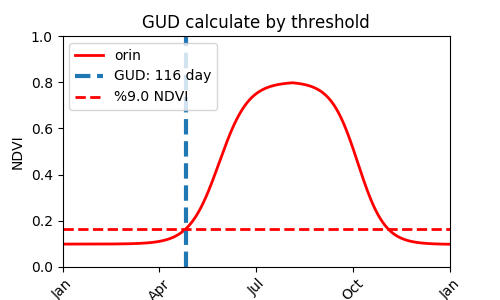
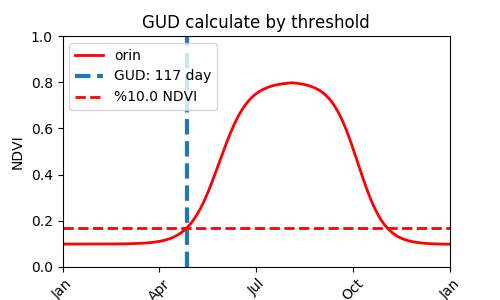
push version 1.0

diff --git a/GUDsimulation/src/PyQtMain.py b/GUDsimulation/src/PyQtMain.py
@@ -15,10 +15,11 @@ from Main import *
 import txt_ndviseris_read
 import sys
 
+
 class ParameterItem(QListWidgetItem):
 
-    def __init__(self, str, a=11.105, b=-0.008, c=0.7, d=0.1, a_down=-24.3, b_down=0.009, weight=1):
-        QListWidgetItem.__init__(self, str)
+    def __init__(self, tstr, a=11.105, b=-0.008, c=0.7, d=0.1, a_down=-24.3, b_down=0.009, weight=1.0, threshold=0.09):
+        QListWidgetItem.__init__(self, tstr)
         self.a = a
         self.b = b
         self.c = c
@@ -26,7 +27,8 @@ class ParameterItem(QListWidgetItem):
         self.a_down = a_down
         self.b_down = b_down
         self.weight = weight
-        self.parameter = [a,b,c,d,a_down,b_down]
+        self.parameter = [a, b, c, d, a_down, b_down]
+        self.threshold = threshold
 
 
 class PyQtMain(QWidget):
@@ -168,8 +170,10 @@ class PyQtMain(QWidget):
             item = self.view.item(i)
             inputList.append(item.parameter)
             weightList.append(item.weight)
+            threshold = item.threshold
+
         weightList = list(map(lambda x:x/sum(weightList), weightList))
-        [GUDmix, GUDothers, GUDthre, GUDthreothers] = main(inputList, fa=weightList)
+        [GUDmix, GUDothers, GUDthre, GUDthreothers] = main(inputList, fa=weightList, thre=threshold)
         pixMap1 = QPixmap('drawOne.png')
         pixMap2 = QPixmap('drawTwo.png')
         pixMap3 = QPixmap('drawThree.png')
@@ -280,6 +284,8 @@ class InputWin(QWidget):
                                             QMessageBox.Yes)
 
     def confirmClick(self):
+        weigth = self.weigthEdit.toPlainText()
+        threshold = float(self.threEdit.toPlainText())
         if self._parameterButton.isChecked():
             a = self.aEdit.toPlainText()
             b = self.bEdit.toPlainText()
@@ -287,7 +293,7 @@ class InputWin(QWidget):
             d = self.dEdit.toPlainText()
             a_down = self.a_downEdit.toPlainText()
             b_down = self.b_downEdit.toPlainText()
-            weigth = self.weigthEdit.toPlainText()
+
             tstr = 'a: ' + a + ' b: ' + b + ' c: ' + c + ' d: ' + d + ' a_down: ' + a_down + ' b_down: ' + b_down\
                 +' Weight: ' + weigth
             a = float(a)
@@ -297,9 +303,6 @@ class InputWin(QWidget):
             a_down = float(a_down)
             b_down = float(b_down)
             weigth = float(weigth)
-            thisItem = ParameterItem(tstr,a=a,b=b,c=c,d=d,a_down=a_down,b_down=b_down,weight=weigth)
-            self.context.view.addItem(thisItem)
-            print('Do Parameter Method!')
 
         else:
             '''
@@ -315,10 +318,12 @@ class InputWin(QWidget):
             d = round(parameters[3], 3)
             a_down = round(parameters[4], 3)
             b_down = round(parameters[5], 3)
-            weigth = 1
             tstr = self.pathEdit.text()
-            thisItem = ParameterItem(tstr, a=a, b=b, c=c, d=d, a_down=a_down, b_down=b_down, weight=weigth)
-            self.context.view.addItem(thisItem)
+            weigth = float(weigth)
+
+        thisItem = ParameterItem(tstr, a=a, b=b, c=c, d=d, a_down=a_down,\
+                                 b_down=b_down, weight=weigth, threshold=threshold)
+        self.context.view.addItem(thisItem)
 
     def cancerClick(self):
         self.close()
@@ -326,7 +331,7 @@ class InputWin(QWidget):
     def inputPath(self):
         fileName1, filetype = QFileDialog.getOpenFileName(self,
                                     "Select File",
-                                    "C:/",
+                                    "./",
                                     "All Files (*);;Text Files (*.txt)") #设置文件扩展名过滤,注意用双分号间隔
         self.pathEdit.setText(fileName1)
 
@@ -412,39 +417,34 @@ class InputWin(QWidget):
         self.threEdit.setFixedSize(80, 30)
         self.threEdit.setText('0.09')
         threLabel = QLabel('threshold:')
-        threLabel.setFixedSize(80, 30)
+        threLabel.setFixedSize(60, 30)
         '''
         vbox.addWidget(a_downLabel, 2, 0)
         vbox.addWidget(a_downEdit, 2, 1)
         vbox.addWidget(b_downLabel, 2, 2)
         vbox.addWidget(b_downEdit, 2, 3)
         '''
-        hbox1 = QHBoxLayout()
-        hbox1.setSpacing(5)
-        hbox1.addWidget(aLable)
-        hbox1.addWidget(self.aEdit)
-        hbox1.addWidget(bLable)
-        hbox1.addWidget(self.bEdit)
-        hbox1.addWidget(cLable)
-        hbox1.addWidget(self.cEdit)
-        hbox1.addWidget(dLable)
-        hbox1.addWidget(self.dEdit)
-
-        hbox2 = QHBoxLayout()
-        hbox2.setSpacing(5)
-        hbox2.addWidget(a_downLabel)
-        hbox2.addWidget(self.a_downEdit)
-        hbox2.addWidget(b_downLabel)
-        hbox2.addWidget(self.b_downEdit)
+        '''
         hbox2.addWidget(weigthLabel)
         hbox2.addWidget(self.weigthEdit)
         hbox2.addWidget(threLabel)
         hbox2.addWidget(self.threEdit)
+        '''
 
-        vbox = QVBoxLayout()
-        vbox.setDirection(vbox.Up)
-        vbox.addLayout(hbox2)
-        vbox.addLayout(hbox1)
+        vbox = QGridLayout()
+        vbox.setSpacing(10)
+        vbox.addWidget(aLable, 1, 1)
+        vbox.addWidget(self.aEdit, 1, 2)
+        vbox.addWidget(bLable, 1, 3)
+        vbox.addWidget(self.bEdit, 1, 4)
+        vbox.addWidget(cLable, 1, 5)
+        vbox.addWidget(self.cEdit, 1, 6)
+        vbox.addWidget(dLable, 2, 1)
+        vbox.addWidget(self.dEdit, 2, 2)
+        vbox.addWidget(a_downLabel, 2, 3)
+        vbox.addWidget(self.a_downEdit, 2, 4)
+        vbox.addWidget(b_downLabel, 2, 5)
+        vbox.addWidget(self.b_downEdit, 2, 6)
 
         NDVIPath = QLabel('Path:')
         self.pathEdit = QLineEdit()
@@ -519,8 +519,13 @@ class InputWin(QWidget):
 
         inputGroup4left = QGroupBox()
         inputGroup4left.setTitle("Preview Image")
-        inputGroup4leftLayout = QHBoxLayout()
-        inputGroup4leftLayout.addWidget(self.previewPicture)
+        inputGroup4leftLayout = QGridLayout()
+        inputGroup4leftLayout.setSpacing(10)
+        inputGroup4leftLayout.addWidget(self.previewPicture, 2, 1, 1, 4)
+        inputGroup4leftLayout.addWidget(weigthLabel, 1, 1)
+        inputGroup4leftLayout.addWidget(self.weigthEdit, 1, 2)
+        inputGroup4leftLayout.addWidget(threLabel, 1, 3)
+        inputGroup4leftLayout.addWidget(self.threEdit, 1, 4)
         inputGroup4left.setLayout(inputGroup4leftLayout)
 
         self.inputGroup4right = QGroupBox()

diff --git a/README.md b/README.md
@@ -1,2 +1,4 @@
 # GUDsimulation
-Python UI learning program
+simulate GUD change effect by mix piexl.
+
+environment: anaconda, pyqt5
